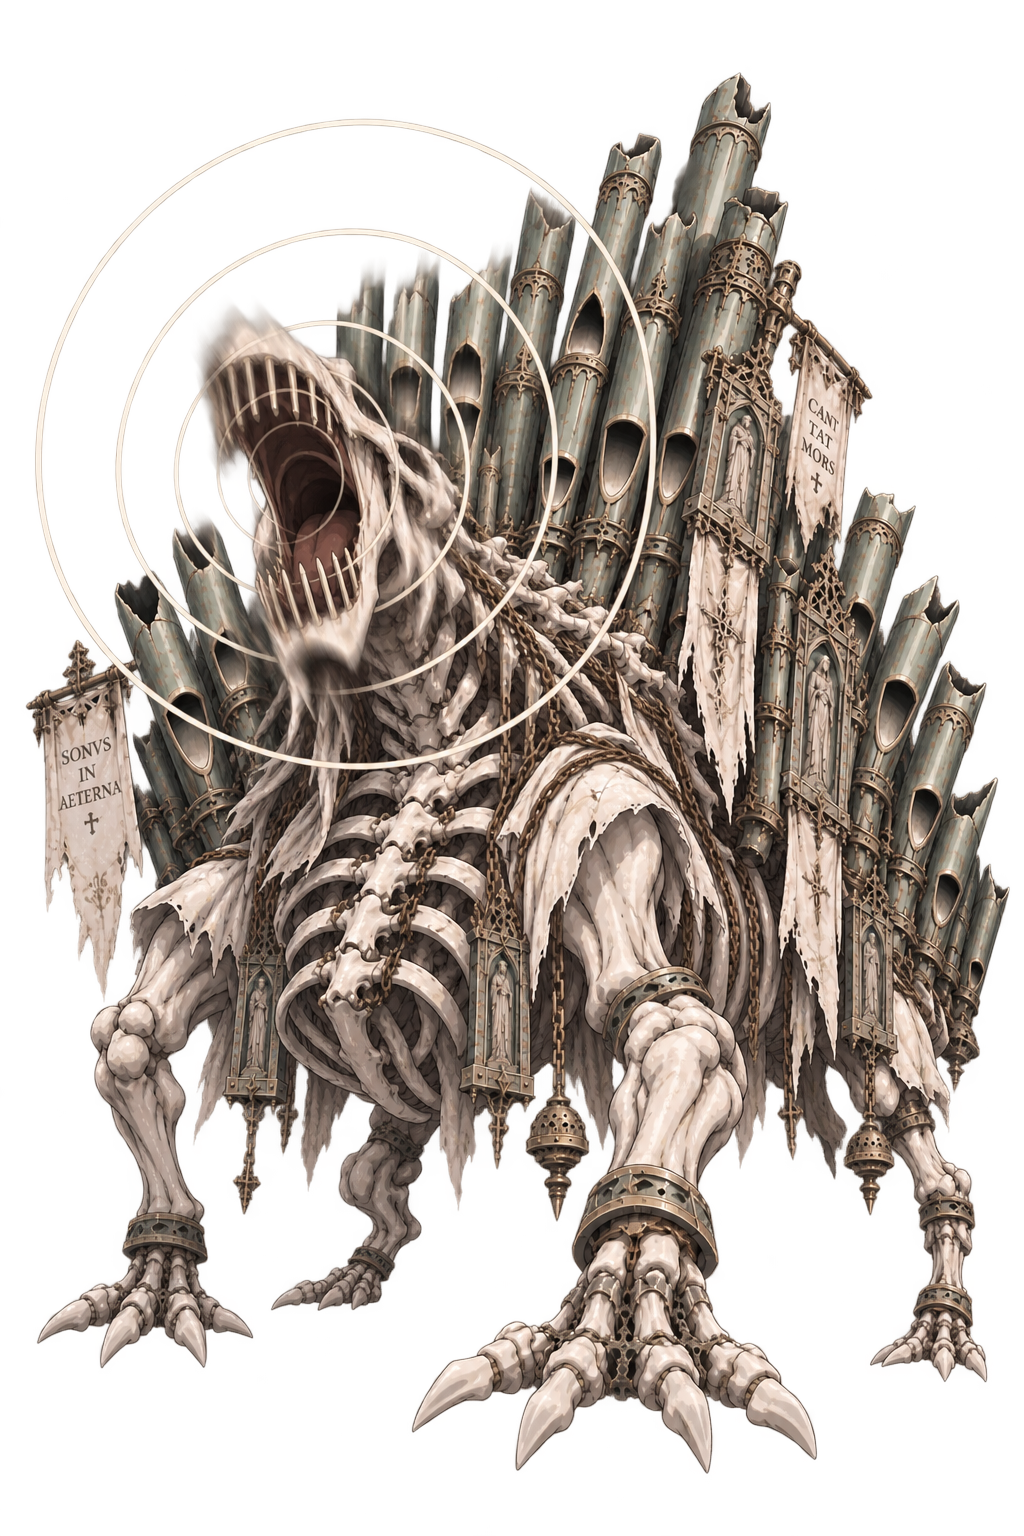
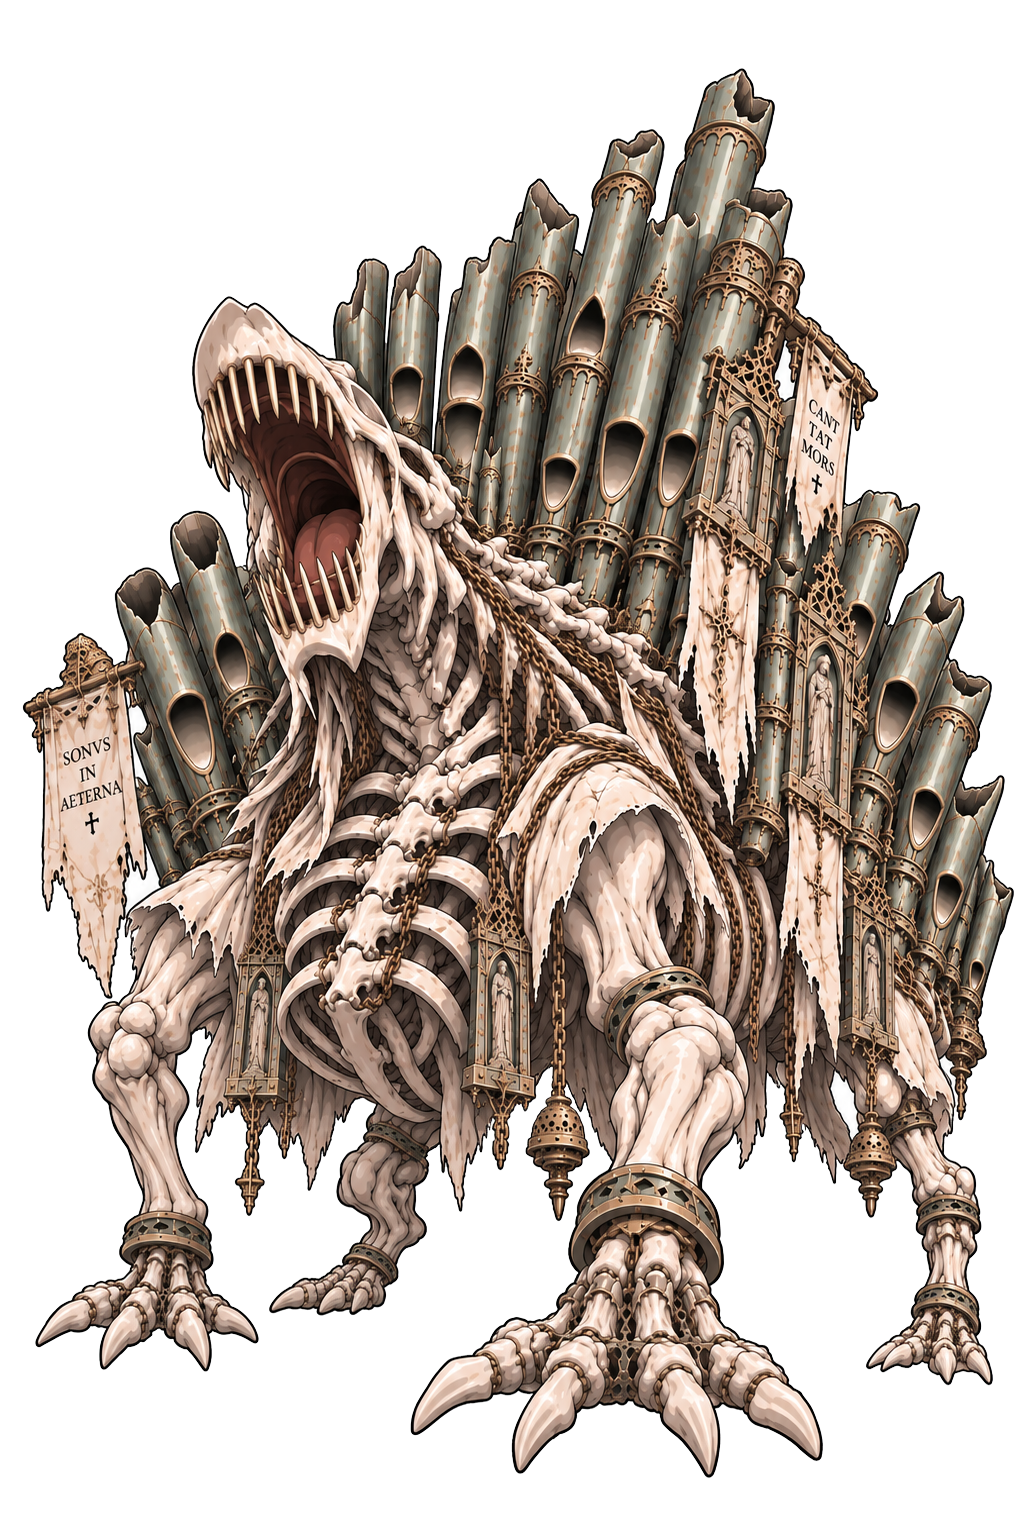
敵人：古墓重出 8 隻排 Wan；詩班兩張拿掉音波（後期程式加，記 TO_CODE）

diff --git a/resources/enemy/_neutral_refs/tomb_kf/_plan.md b/resources/enemy/_neutral_refs/tomb_kf/_plan.md
@@ -3,6 +3,7 @@
 > 原圖都已是站姿（A 沿用原圖）、都有待機 `_idle_v2`；只缺攻擊 B。每隻一張攻擊 B（D／M 先共用，Ray 要分再補）。
 > 動作全是我擬的（Excel 沒寫），對照圖 `_review_tomb_1.jpg`／`_2.jpg`（每格左＝原圖 A、右＝B）。**Ray 點頭才跑 Wan**。
 > **11-22 Ray 審過：其餘 15 隻「先跑 WAN」（`tools/anim/tomb_kf_run.sh`，`out/tomb_kf`）；上面標「改動作重出」的 7 隻＋牡鹿另審。**
+> **11-22 晚 Ray：音波特效都拿掉（後期程式加，見 TO_CODE），重出那 8 張可以跑 Wan** —— 詩班兩張已換無音波版，8 隻全部排進 `tomb_kf_run.sh`。
 > 檔名 `tb_<名>_B.png`（GPT 原檔，未對色對齊）。
 
 | 怪 | B 擬的動作 | 備註 |
@@ -15,8 +16,8 @@
 | iron_maiden 鐵處女 | 閉棺濺血 | 11-22 Ray 改動作重出（GPT 擋兩次「暴力」，第三次換串換措辭才過） |
 | ~~ossuary_rats 骨堂鼠群~~ | **刪**（Ray 11-22「老鼠刪掉」；B 與 src 已回收） | |
 | ossuary_wheel 骨輪 | 轉向 viewer 滾來衝撞 | 11-22 Ray 改動作重出 |
-| choir_organ 唱詩管風琴 | 詠唱（張口高歌＋聲波環） | 11-22 Ray 改動作重出 |
-| choir_pale 蒼白詩班 | 三修女詠唱（張口＋聲波環） | 11-22 Ray 改動作重出 |
+| choir_organ 唱詩管風琴 | 詠唱（張口高歌；音波由程式加） | 11-22 Ray 改動作重出 |
+| choir_pale 蒼白詩班 | 三修女詠唱（張口；音波由程式加） | 11-22 Ray 改動作重出 |
 | bellfounder 鑄鐘者 | 正面衝撞 | 11-22 Ray 改動作重出 |
 | grave_censer 墓香爐 | 雙香爐甩來 | |
 | candelabra_fiend 燭台魔 | 斜劈爪擊 | |

diff --git a/resources/enemy/anim/TO_CODE_attack.md b/resources/enemy/anim/TO_CODE_attack.md
@@ -3,6 +3,12 @@
 > 動畫 session 不碰程式（憲法鐵律 11），要接的寫在這裡。接完請在 HANDOFF 註記。
 > 來源：Ray 的 `敵人一覽_非空戰_動畫編排.xlsx`（待機 loop／攻擊動畫／延時點錯動畫三欄）。
 
+## ⚠ 11-22 預告（還沒交件）：伊甸古墓詩班兩隻的攻擊要由程式加「音波」特效
+
+- `choir_organ` 唱詩管風琴、`choir_pale` 蒼白詩班的攻擊＝**詠唱**（Ray 11-22）。關鍵格的音波環 Ray 叫拿掉（「後期用程式加」），所以動畫只有張口詠唱的身體動作。
+- 程式端：攻擊段播放期間，從嘴部向外擴散的同心音波環（往鏡頭方向放大、淡出），打到那一格的時間點等交件時一起給。
+- 交件（Ray 剪完）時這一段會補上動檔名與打到格。
+
 ## ⚠ 11-21 待程式接：賞金獵人 `guild_hunter`（帝都公會特殊戰）新立繪＋開槍（敵人線 3060）
 
 Ray：中立「要已經掏槍」「槍要已經指著 viewer」；B「只要開槍就好 槍口微仰」；「F 越少越好」「不用跑 R」；剪片 `hunter_fire_A_AB_cut`「用這個當 ADM」。
